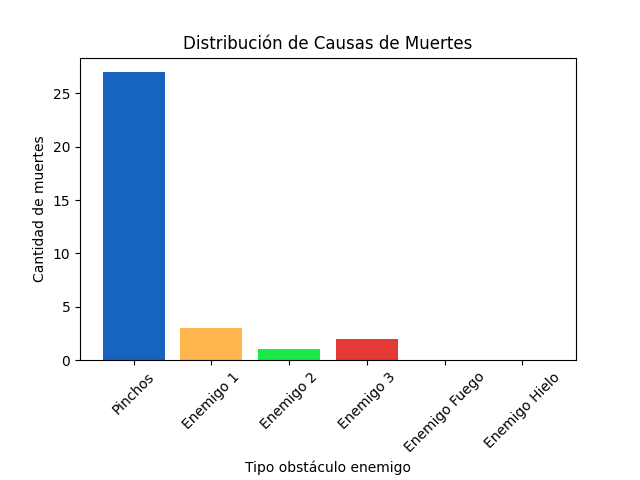
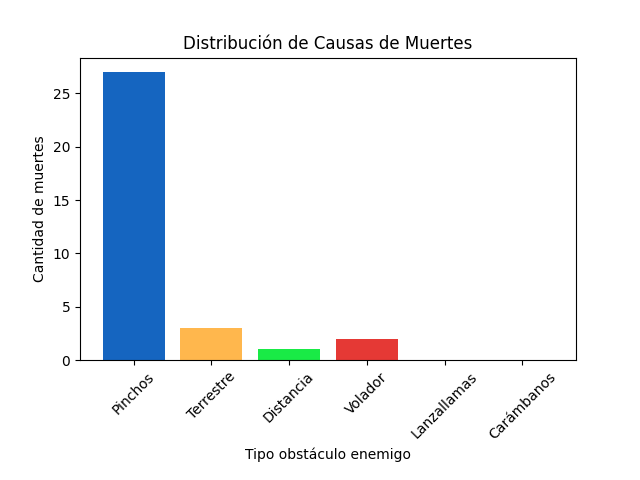
nuevas lables

diff --git a/Analisis/HeatMapsYMetricas/Analisis.py b/Analisis/HeatMapsYMetricas/Analisis.py
@@ -51,12 +51,7 @@ def Metrica3():
     ar = [sum(singleDf['MuSpike']), sum(singleDf['MuE1']), sum(singleDf['MuE2']), sum(singleDf['MuE3']), sum(singleDf['MuFi']), sum(singleDf['MuIc'])]
     
     plt.clf()
-    mNames= ['Pinchos', 'Enemigo 1', 'Enemigo 2', 'Enemigo 3', 'Enemigo Fuego', 'Enemigo Hielo'] #Nombres mas legibles
-    '''plt.pie(ar, labels = mNames, startangle = 90)
-    plt.xticks(rotation=45)
-    plt.title("Distribución de Causas de Muertes")
-    plt.savefig('./Metricas/Metrica3.png')'''
-
+    mNames= ['Pinchos','Terrestre', 'Distancia', 'Volador', 'Lanzallamas', 'Carámbanos'] #Nombres mas legibles
     plt.bar(mNames, ar, color=['#1565c0', '#ffb74d', "#19ea46","#e53935", "#d04cd7ff", "#000e6bff"]) #para que no se quede ese 0
     plt.xticks(rotation=45)
     plt.subplots_adjust(bottom=0.25)
@@ -134,7 +129,7 @@ def Metrica8():
     auxdf.loc[0] = ar
     
     plt.clf()
-    mNames= ['Enemigo 1', 'Enemigo 2', 'Enemigo 3', 'Enemigo Fuego', 'Enemigo Hielo'] #Nombres mas legibles
+    mNames= ['Terrestre', 'Distancia', 'Volador', 'Lanzallamas', 'Carámbanos'] #Nombres mas legibles
     plt.bar(mNames, ar, color=['#1565c0', '#ffb74d', "#19ea46",'#e53935', "#d04cd7ff"], align='center')
     plt.xticks(rotation=45)
     plt.subplots_adjust(bottom=0.25)
